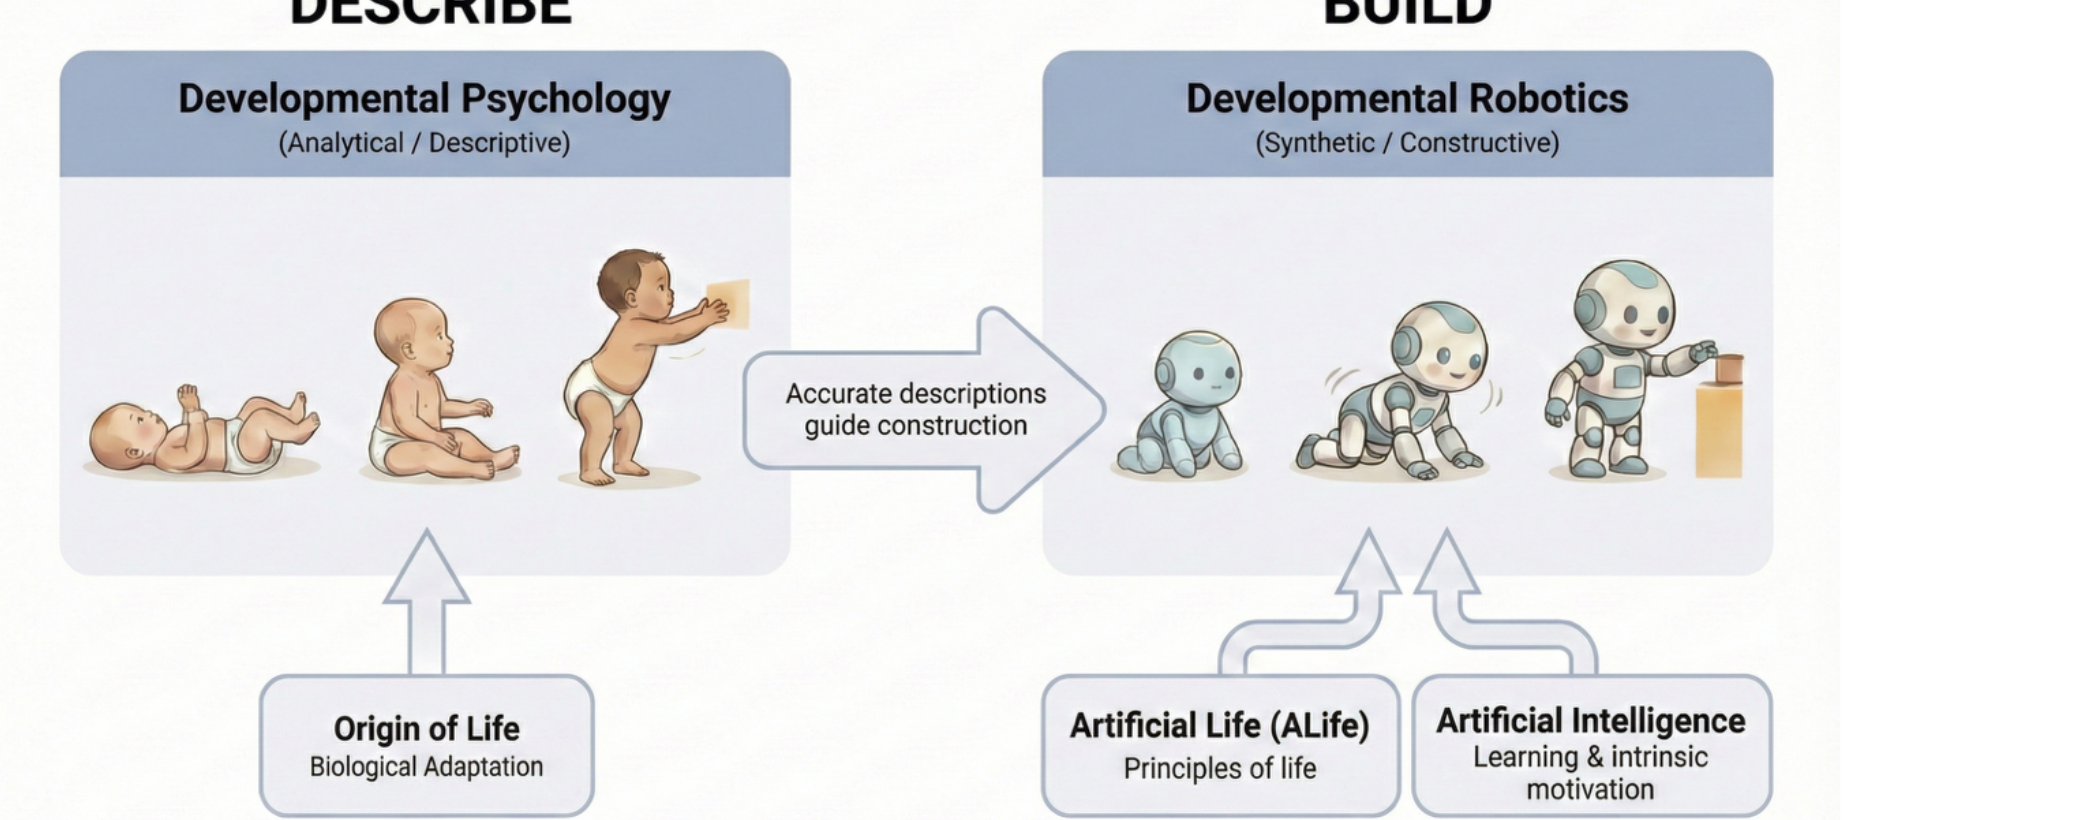
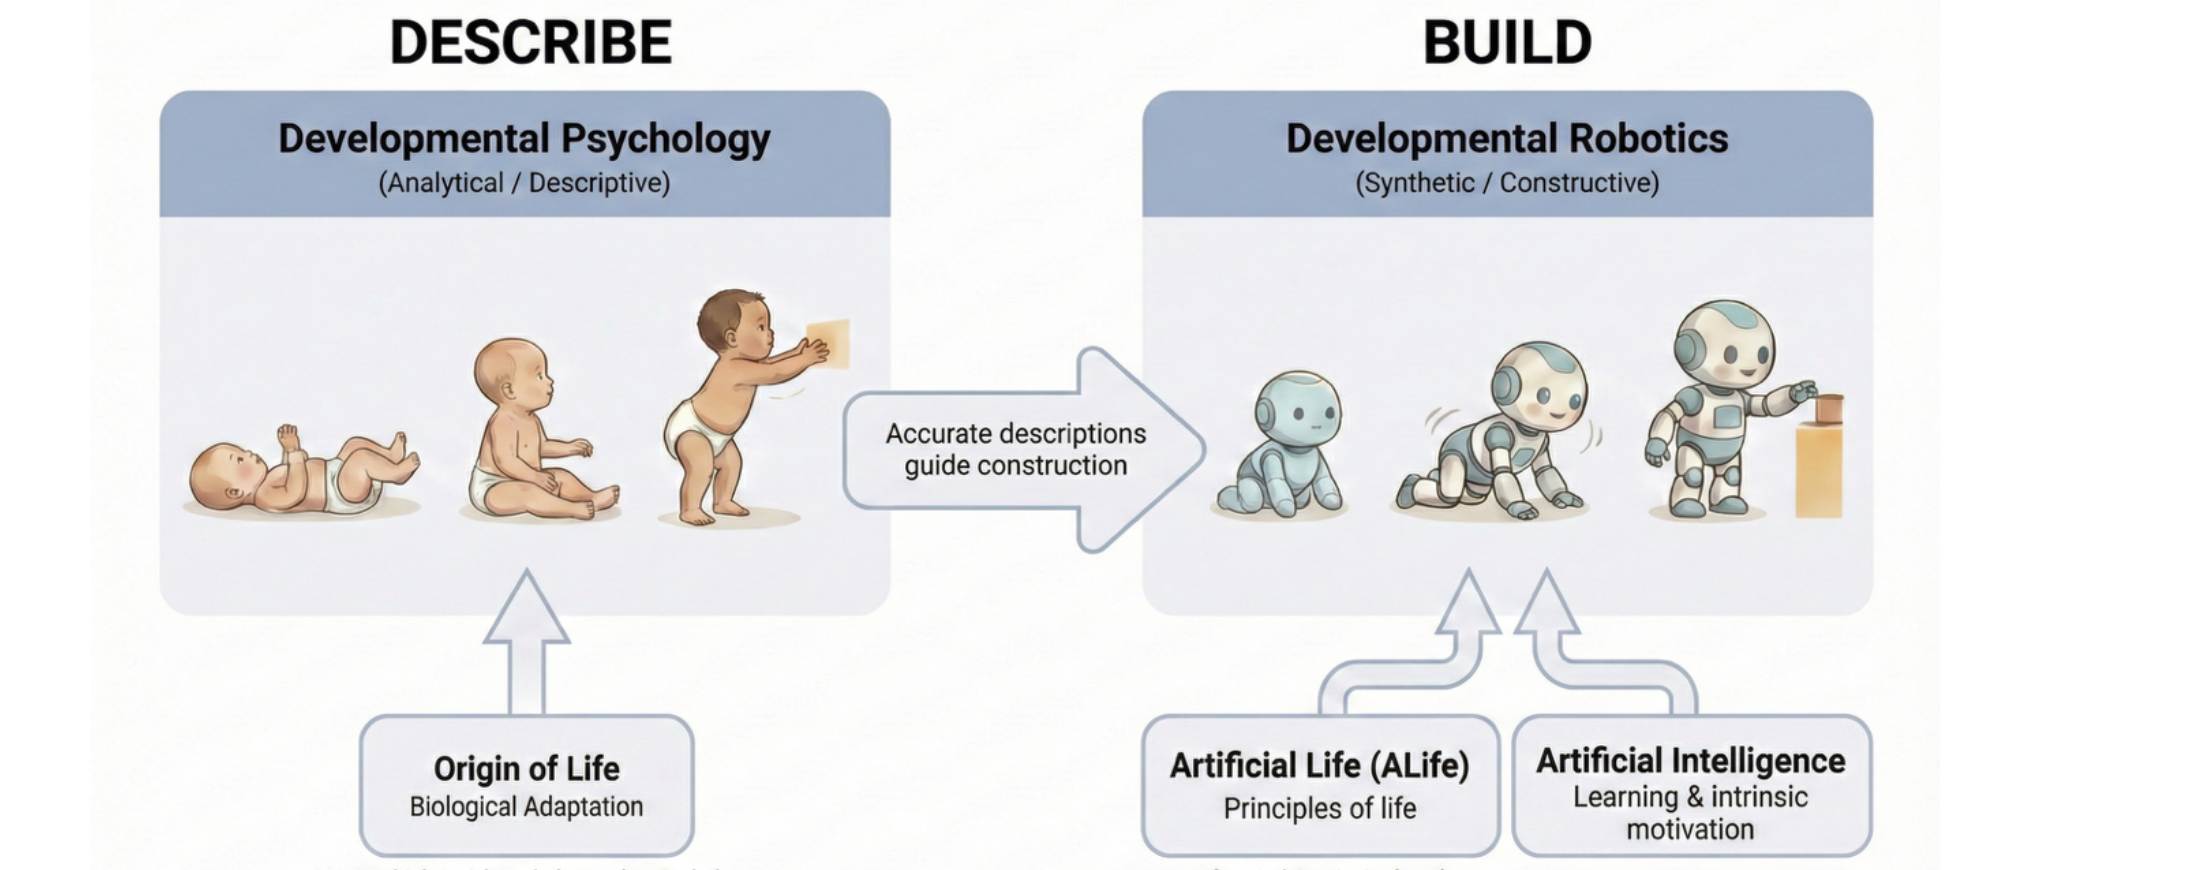
Vitality3: fix describe_build figure crop, add folk psychology to caption
- Re-cropped describe_build.png to include full figure (DESCRIBE/BUILD headers,
  both panels, bottom row with Origin of Life / ALife / AI labels)
- Updated caption: folk psychology (religion and philosophy) to be added
  alongside origin of life in future revision

diff --git a/write/white/Vitality3/Vitality3.tex b/write/white/Vitality3/Vitality3.tex
@@ -51,7 +51,7 @@ Play appears across species wherever nervous systems support flexible behavior. 
 \begin{figure}[ht]
 \centering
 \includegraphics[width=0.75\textwidth]{figures/describe_build.png}
-\caption{Developmental psychology describes how infants explore, grow through cognitive stages, and learn social skills. Developmental robotics builds embodied agents that implement candidate learning mechanisms. Combined through play, accurate descriptions guide construction---and construction tests descriptions.}
+\caption{Developmental psychology describes how infants explore, grow through cognitive stages, and learn social skills. Developmental robotics builds embodied agents that implement candidate learning mechanisms. Combined through play, accurate descriptions guide construction---and construction tests descriptions. We also intend to add folk psychology---including both religion and philosophy---as informing developmental psychology alongside the origin of life.}
 \label{fig:describe-build}
 \end{figure}
 

diff --git a/write/white/Vitality3/Vitality3.md b/write/white/Vitality3/Vitality3.md
@@ -18,7 +18,7 @@ We propose Vitality as a formal theory of autonomous development grounded in pla
 
 Play appears across species wherever nervous systems support flexible behavior. Piaget demonstrated that play is central to cognitive construction; Trevarthen showed that intersubjective play founds social cognition, explicitly characterizing it through *vitality affects* and *vitality dynamics* — the reciprocal, temporally structured emotional exchanges between infant and caregiver that scaffold all later development; Panksepp identified dedicated neural circuitry for play that cannot be reduced to other motivational systems. Play has structure — it is not random exploration, but rather a specific behavioral regime characterized by two complementary capacities. The term "vitality" itself has deep roots in developmental psychology, grounding our formalism in the empirical study of dynamic, reciprocal engagement.
 
-![Developmental psychology describes how infants explore, grow through cognitive stages, and learn social skills. Developmental robotics builds embodied agents that implement candidate learning mechanisms. Combined through play, accurate descriptions guide construction — and construction tests descriptions.](figures/describe_build.png)
+![Developmental psychology describes how infants explore, grow through cognitive stages, and learn social skills. Developmental robotics builds embodied agents that implement candidate learning mechanisms. Combined through play, accurate descriptions guide construction — and construction tests descriptions. We also intend to add folk psychology — including both religion and philosophy — as informing developmental psychology alongside the origin of life.](figures/describe_build.png)
 
 This is not merely a metaphor. When we say play is the mother of all values, we mean it mechanistically: play exhibits a specific architecture — two complementary capacities in a self-sustaining loop — that generates open-ended development without external reward signals. What follows is a mechanization of play — a formal account of its two capacities and the architecture they generate.
 
